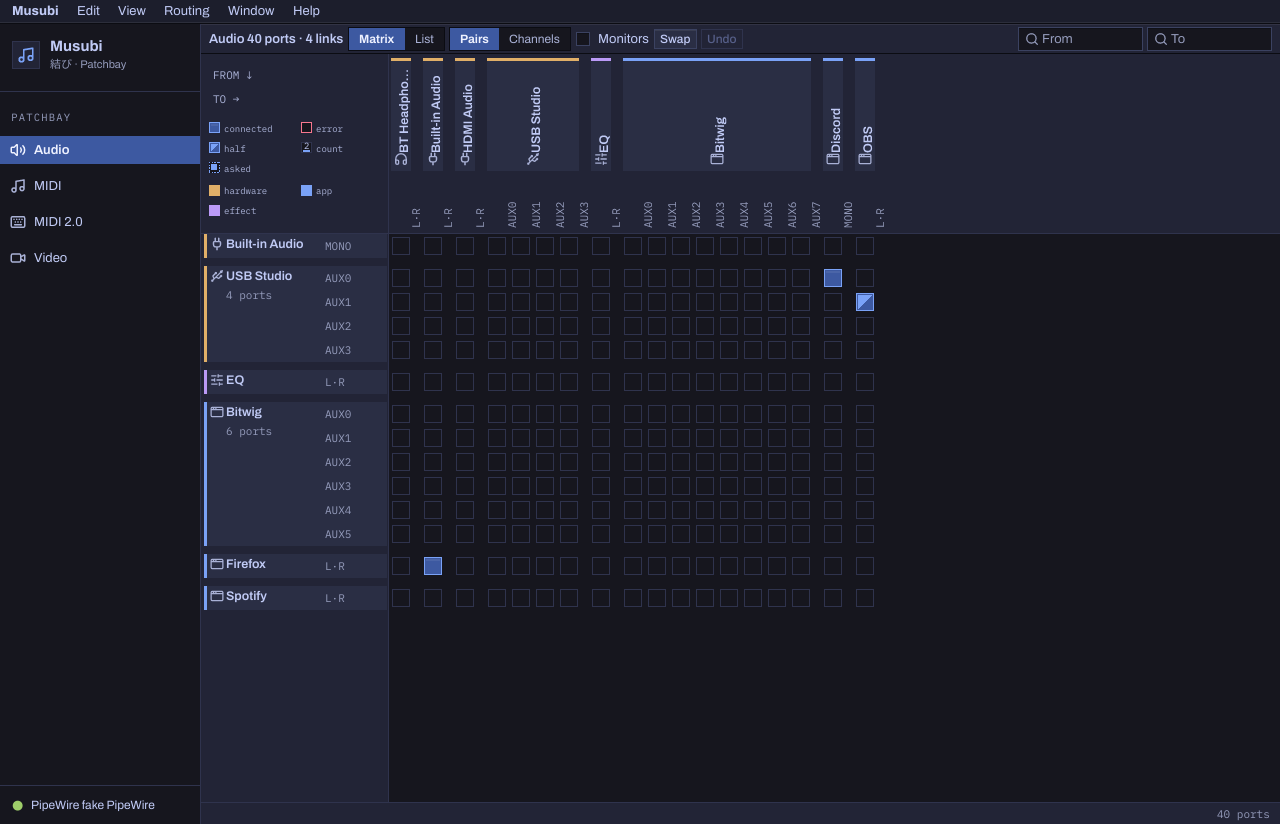
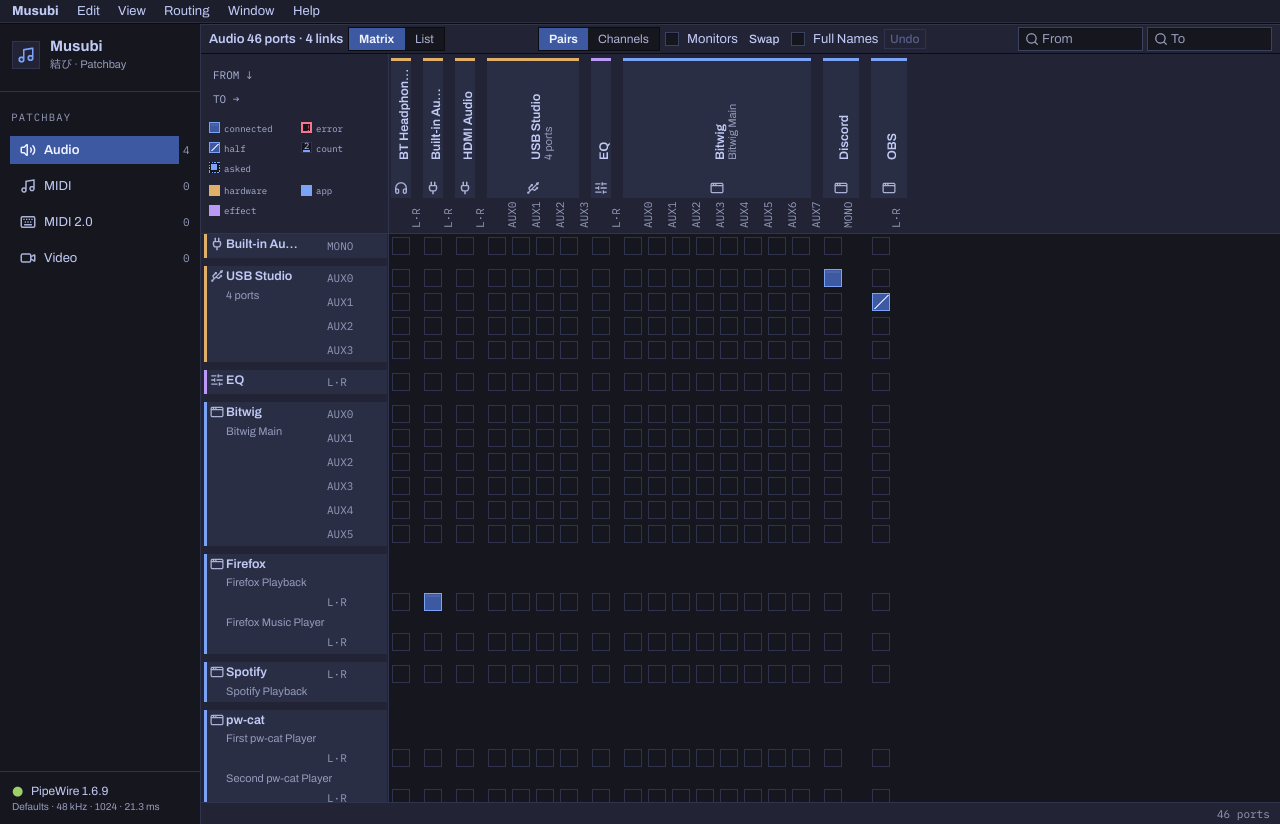
Point the README at the published flake and describe the new headers
Agent: OMP (anthropic/claude-opus-5-5) on behalf of Aidan Coyne (@raptros)

diff --git a/README.md b/README.md
@@ -2,6 +2,8 @@
 
 See what is connected in PipeWire and make the next connection yourself. Musubi puts sources on one axis and destinations on the other: click a cell to connect or disconnect a port. A line drag applies several connections together; Undo reverses the action. Audio, MIDI 1.0, MIDI 2.0 and video each have their own page. Switch to List to inspect, filter and change routes without using the grid.
 
+**Status:** early and unpolished; phase 1 of a larger plan (mixer, effects and saved setups come later). Musubi is a power-user tool for Aizome on [Sekka](https://github.com/bitemyapp/sekka) and is not part of Sekka's app catalog.
+
 | Night | Day |
 | --- | --- |
 | ![Audio patch matrix in Night theme](docs/screenshots/audio-studio-night.png) | ![Audio patch matrix in Day theme](docs/screenshots/audio-studio-day.png) |
@@ -14,14 +16,14 @@ These are headless Aizome Harness goldens with fixture ports, not screenshots of
 With Nix flakes, from this checkout:
 
 ```sh
-nix run .
+nix run github:raptros/aizome-musubi
 ```
 
 For NixOS, add this flake as an input, import its module and enable the app:
 
 ```nix
 {
-  inputs.musubi.url = "path:/path/to/aizome-musubi";
+  inputs.musubi.url = "github:raptros/aizome-musubi";
   inputs.nixpkgs.follows = "musubi/nixpkgs";
   outputs = { nixpkgs, musubi, ... }: {
     nixosConfigurations.myMachine = nixpkgs.lib.nixosSystem {
@@ -32,9 +34,9 @@ For NixOS, add this flake as an input, import its module and enable the app:
 }
 ```
 
-Replace `myMachine` and the local path with your system's names; alternatively import `musubi.nixosModules.default` into an existing NixOS configuration and set `programs.musubi.enable = true;`. The flake builds on x86_64 Linux and includes a desktop launcher and scalable icon. It is a standalone app; it is not yet in Sekka's app catalog. PipeWire must be running to show and change real routes. It does not start PipeWire or a session manager for you.
+Replace `myMachine` with your system's name; alternatively import `musubi.nixosModules.default` into an existing NixOS configuration and set `programs.musubi.enable = true;`. The flake builds on x86_64 Linux and includes a desktop launcher and scalable icon. PipeWire must be running to show and change real routes. It does not start PipeWire or a session manager for you.
 
-The Audio toolbar offers stereo Pairs or individual Channels, monitor ports, axis Swap and independent From/To filters. MIDI 2.0 can show MIDI 1.0 ports and asks before crossing formats. The inspector shows the selected port's facts and connections. The route list has sortable columns and an Add Route sheet. In both views Musubi shows the graph as PipeWire reports it; a requested link is pending until the server reports it, and errors are shown rather than silently accepted. View choices are stored in `$XDG_CONFIG_HOME/aizome/musubi.toml` (or `~/.config/aizome/musubi.toml`).
+The Audio toolbar offers stereo Pairs or individual Channels, monitor ports, axis Swap and independent From/To filters. Applications are grouped under their name, with each stream's own title beneath, so two players of one app stay apart. Long names are shortened to the part that tells siblings apart; hover a name for all of it, drag the edge of a header to widen it (double-click fits it), or turn on **Full Names** (Option+Super+F) to see everything. MIDI 2.0 can show MIDI 1.0 ports and asks before crossing formats. The inspector shows the selected port's facts and connections. The route list has sortable columns and an Add Route sheet. In both views Musubi shows the graph as PipeWire reports it; a requested link is pending until the server reports it, and errors are shown rather than silently accepted. View choices are stored in `$XDG_CONFIG_HOME/aizome/musubi.toml` (or `~/.config/aizome/musubi.toml`).
 
 ## Keyboard
 
@@ -46,7 +48,7 @@ The Audio toolbar offers stereo Pairs or individual Channels, monitor ports, axi
 | Shift+Space, arrows, Space | Start, extend and apply a line of connections; Escape cancels |
 | Super+1…4 | Audio, MIDI, MIDI 2.0, Video pages |
 | Super+Z / Super+Shift+Z | Undo / redo |
-| Alt+Super+S / Alt+Super+I | Swap axes / toggle inspector |
+| Alt+Super+S / Alt+Super+I / Alt+Super+F | Swap axes / toggle inspector / full names |
 | Delete or Backspace | Remove selected routes in List view |
 
 The View, Edit and Routing menus expose commands without needing the grid. In List view, use Tab to reach the table and Add Route sheet; filter the same From/To fields. On platforms using a different command modifier, use the shortcuts shown by the app menu.

diff --git a/docs/architecture.md b/docs/architecture.md
@@ -54,7 +54,7 @@ Later phases add: `mixer` (strips, `Fader`, `LevelMeter`; Pulse bridge), `meters
 
 The phase-1 matrix derives immutable layouts per page after graph deltas. `ViewOptions` supplies pairs, swap, monitors, optional MIDI 1.0, independent From/To filters and folded group keys. Active Link globals alone count as connected; negotiating links display asked, and failed links display error with the PipeWire reason. The live and fixture EnumFormat summaries carry video raw/DSP families even without `format.dsp`; control type masks distinguish MIDI from UMP, and an ambiguous control mask stays unknown. Pending requests stay asked until observation; failed requests retain their reason. Sparse link and request states avoid allocating the row × column product.
 The matrix retains its tree key across layout changes, reconciling focus, hover, press and line cells by surviving port identity or clamping/clearing them when rows shrink. `PatchMatrix` and the app share a focus handle for page-labelled Table semantics; its focused Cell child advertises route state and activation through the normal toggle command path.
-Header dimensions are page-scoped view options saved alongside pairs/swap. A matrix layout carries its effective row and column header sizes; `PatchMatrix::view` clamps them to leave at least 240pt of body on both axes, and exports the body as an inspect part for the VM driver. A 24pt edge strip supports dragging and double-click fitting; Show Full Names computes the fit from current groups and labels. Stream subtitle bands are 16pt axis offsets and are excluded from cell hit testing.
+Header dimensions are page-scoped view options saved alongside pairs/swap. A matrix layout carries its effective row and column header sizes; `PatchMatrix::view` clamps them to leave at least 240pt of body on both axes, and exports the body as an inspect part for the VM driver. A 12pt grip on the header's side of each header edge (never over the first cells) supports dragging and double-click fitting; Show Full Names computes the fit from current groups and labels. Stream subtitle bands are 16pt axis offsets and are excluded from cell hit testing.
 The footer shows core-advertised default clock rate and quantum when both are known (and the resulting quantum duration); it is labelled “Defaults”, not measured latency. The fake backend advertises a fixture clock and version. Sidebar page counts are observed links classified by media type.
 The sheet keeps its From/To search text aligned with any active matrix filter, and list rows inset their text. Empty and disconnected pages disable controls that have no matrix to act on. Cell errors use a red inset edge and red corner mark; focus and drag preview remain outer rings.
 
